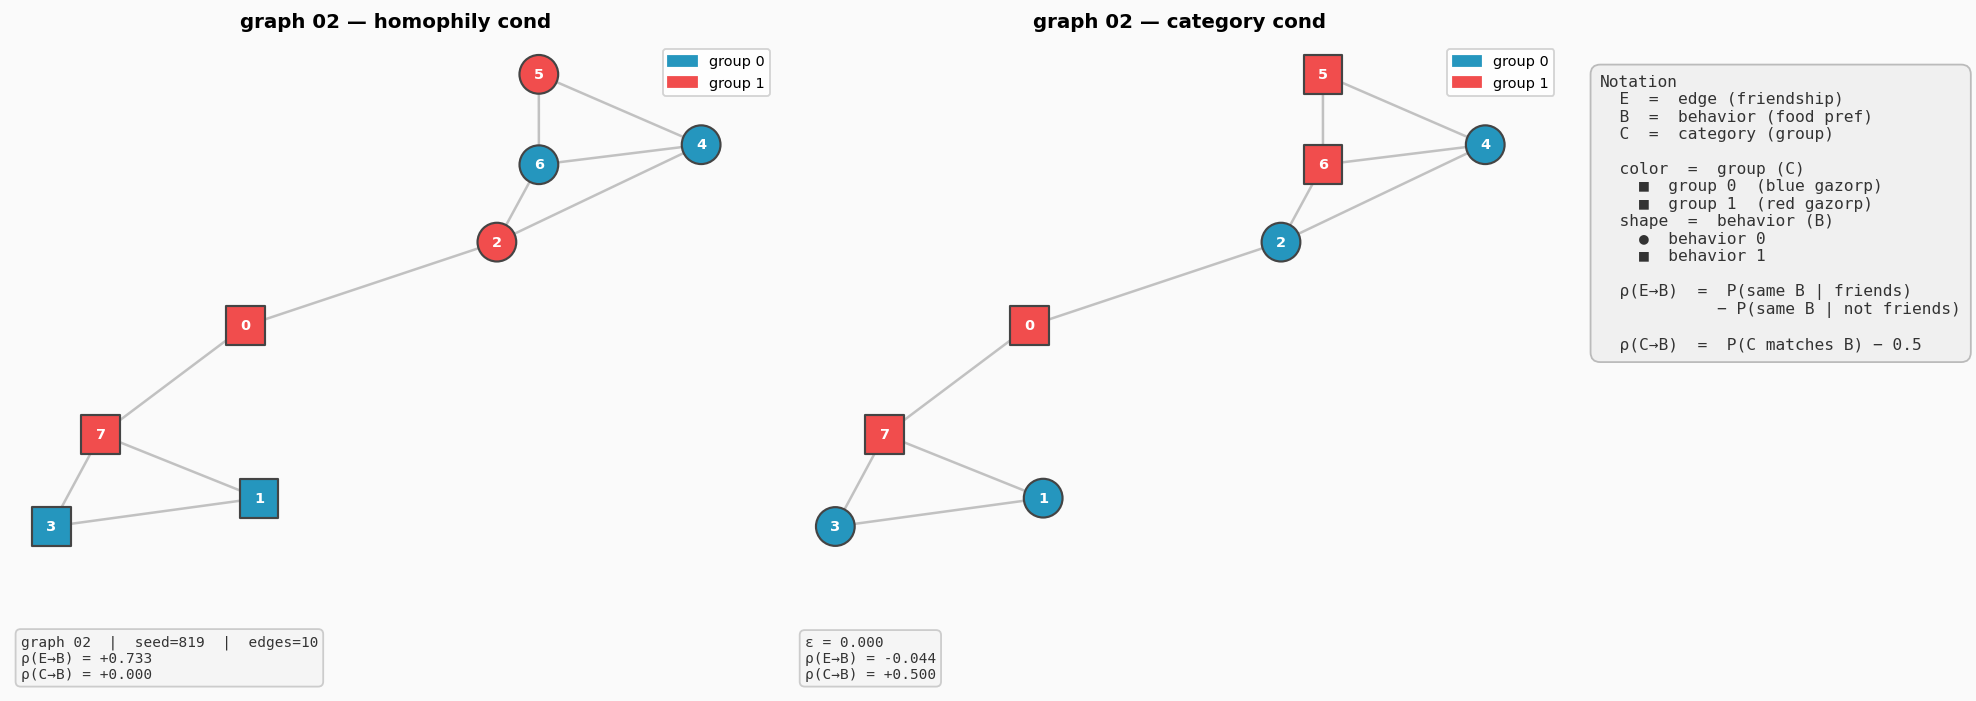
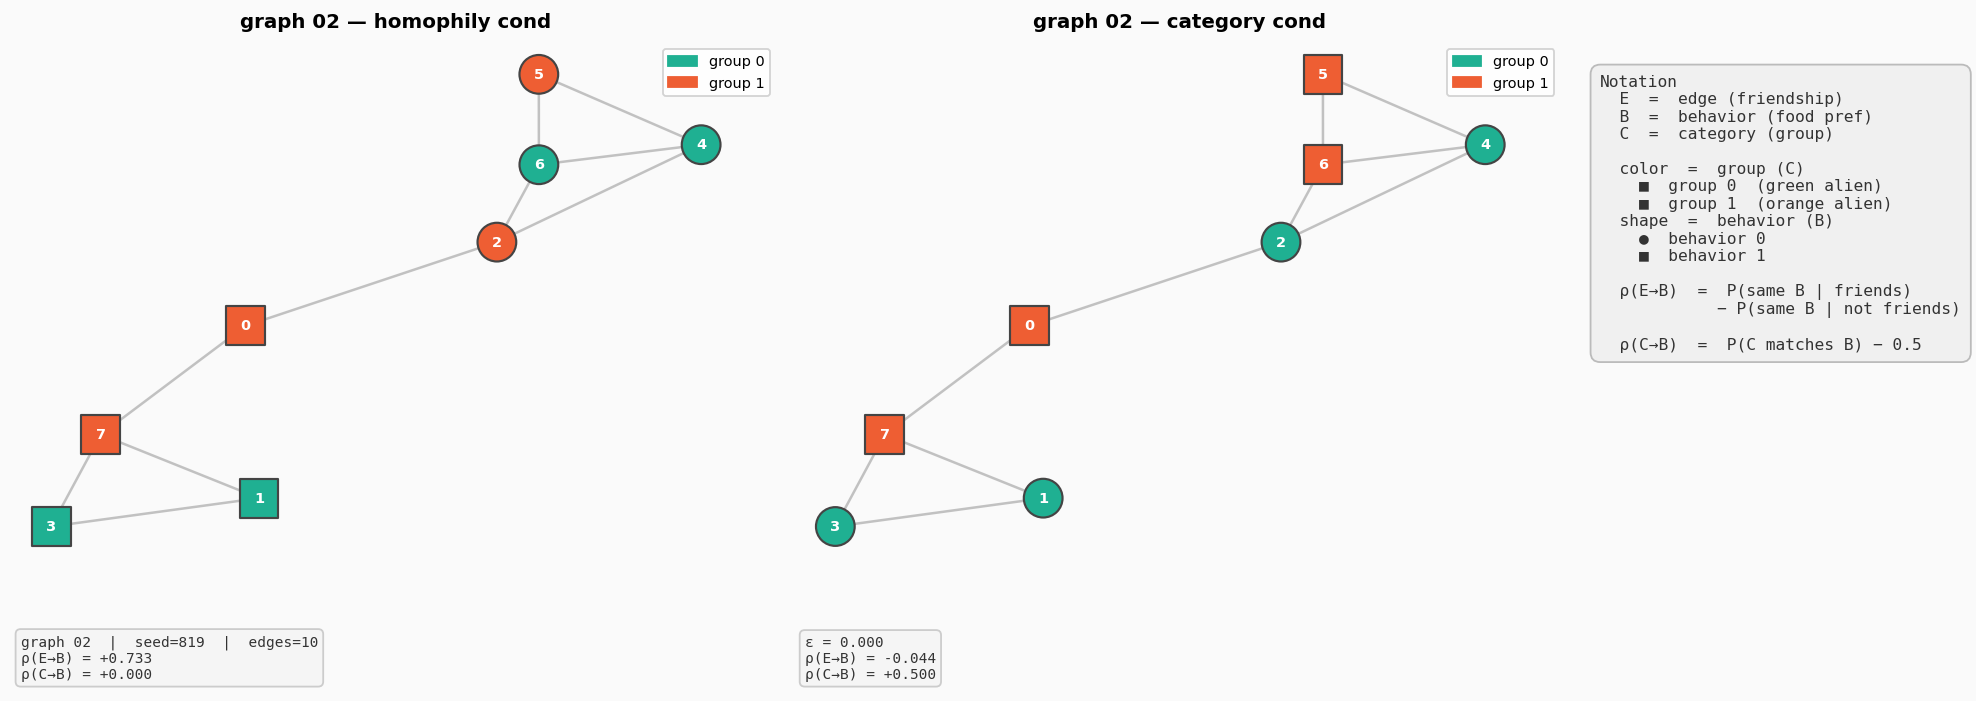
some updates

diff --git a/experiments/exp_1/experiment.js b/experiments/exp_1/experiment.js
@@ -461,7 +461,6 @@ function initStudy(graphData, condition) {
                     <li>Is each alien green or orange?</li>
                     <li>What does each alien eat?</li>
                 </ul>
-                <p>No feedback will be given. Just do your best.</p>
             </div>`],
         show_clickable_nav: true,
         allow_keys: false,
@@ -474,7 +473,7 @@ function initStudy(graphData, condition) {
         type: jsPsychHtmlButtonResponse,
         stimulus: `
             <div class='content-box' style='text-align:center;'>
-                <p style='font-size:17px; color:#555;'>Part 1 of 3: Were these two aliens friends?</p>
+                <p style='font-size:17px; color:#555;'>Were these two aliens friends with each other?</p>
             </div>`,
         choices: ['Start']
     };
@@ -487,7 +486,7 @@ function initStudy(graphData, condition) {
         type: jsPsychHtmlButtonResponse,
         stimulus: `
             <div class='content-box' style='text-align:center;'>
-                <p style='font-size:17px; color:#555;'>Part 2 of 3: Is each alien green or orange?</p>
+                <p style='font-size:17px; color:#555;'>Is each alien green or orange?</p>
             </div>`,
         choices: ['Start']
     };
@@ -500,7 +499,7 @@ function initStudy(graphData, condition) {
         type: jsPsychHtmlButtonResponse,
         stimulus: `
             <div class='content-box' style='text-align:center;'>
-                <p style='font-size:17px; color:#555;'>Part 3 of 3: What does each alien eat?</p>
+                <p style='font-size:17px; color:#555;'>What does each alien eat?</p>
             </div>`,
         choices: ['Start']
     };
@@ -509,28 +508,28 @@ function initStudy(graphData, condition) {
         behavior, nameMapping, behaviorLabels, species, jsPsych, sessionData
     );
 
-    // compute exclusion flags after phase 2
-    var phase2Done = {
-        type: jsPsychHtmlButtonResponse,
-        stimulus: `
-            <div class='content-box' style='text-align:center;'>
-                <p style='font-size:18px; color:#555;'>Memory check complete. Next up: 5 new aliens.</p>
-            </div>`,
-        choices: ['Continue'],
-        on_load: function() {
-            var val = sessionData.phase_2_validation;
+    // // compute exclusion flags after phase 2
+    // var phase2Done = {
+    //     type: jsPsychHtmlButtonResponse,
+    //     stimulus: `
+    //         <div class='content-box' style='text-align:center;'>
+    //             <p style='font-size:18px; color:#555;'>Memory check complete. Next up: 5 new aliens.</p>
+    //         </div>`,
+    //     choices: ['Continue'],
+    //     on_load: function() {
+    //         var val = sessionData.phase_2_validation;
 
-            var erCorrect = val.edge_recognition.filter(t => t.correct).length / val.edge_recognition.length;
-            var spCorrect = val.species_recall.filter(t => t.correct).length / val.species_recall.length;
-            var bhCorrect = val.behavior_recall.filter(t => t.correct).length / val.behavior_recall.length;
+    //         var erCorrect = val.edge_recognition.filter(t => t.correct).length / val.edge_recognition.length;
+    //         var spCorrect = val.species_recall.filter(t => t.correct).length / val.species_recall.length;
+    //         var bhCorrect = val.behavior_recall.filter(t => t.correct).length / val.behavior_recall.length;
 
-            sessionData.attention_flags.below_threshold_edge_recognition = erCorrect < THRESHOLD_EDGE_REC;
-            sessionData.attention_flags.below_threshold_species           = spCorrect < THRESHOLD_SPECIES;
-            sessionData.attention_flags.below_threshold_behavior          = bhCorrect < THRESHOLD_BEHAVIOR;
+    //         sessionData.attention_flags.below_threshold_edge_recognition = erCorrect < THRESHOLD_EDGE_REC;
+    //         sessionData.attention_flags.below_threshold_species           = spCorrect < THRESHOLD_SPECIES;
+    //         sessionData.attention_flags.below_threshold_behavior          = bhCorrect < THRESHOLD_BEHAVIOR;
 
-            logToBrowser('validation accuracy', { erCorrect, spCorrect, bhCorrect });
-        }
-    };
+    //         logToBrowser('validation accuracy', { erCorrect, spCorrect, bhCorrect });
+    //     }
+    // };
 
 
     // ══════════════════════════════════════════════════════════════
@@ -541,7 +540,8 @@ function initStudy(graphData, condition) {
         pages: [`
             <div class='content-box'>
                 <p>You'll now meet <b>2 new aliens</b> you haven't seen before.</p>
-                <p>For each one, choose <b>one thing</b> to reveal — their color, or who their friends are — then predict what they eat and rate your confidence.</p>
+                <p>Your job is to determine what they like to eat.</p>
+                <p>For each one, you can choose <b>one thing</b> to reveal about them (their color, or who their friends are), to help you decide.</p>
             </div>`],
         show_clickable_nav: true,
         allow_keys: false,
@@ -569,9 +569,8 @@ function initStudy(graphData, condition) {
                 <p style='font-size:18px;'>In your own words, how did you decide what each new alien eats?
                 What information did you find most useful?</p>
                 <p>
-                    <textarea name='strategy' rows='6' cols='70' minlength='30'
-                        placeholder='e.g. "I looked at whether the new alien seemed similar to..." (minimum 30 characters)'
-                        ${TESTING_MODE ? '' : 'required'}></textarea>
+                    <textarea name='strategy' rows='6' cols='70'
+                        placeholder='e.g. "I looked at whether the new alien seemed similar to..."'></textarea>
                 </p>
             </div>`,
         button_label: 'Continue',
@@ -697,13 +696,16 @@ function initStudy(graphData, condition) {
             conditional_function: function() { return _devStart <= 2; }
         },
         {
-            timeline: [phase2Instructions, edgeRecHeader]
-                .concat(edgeRecTrials)
-                .concat([speciesHeader])
-                .concat(speciesRecallTrials)
-                .concat([behaviorHeader])
-                .concat(behaviorRecallTrials)
-                .concat([phase2Done]),
+            timeline: (function() {
+                var blocks = jsPsych.randomization.shuffle([
+                    [edgeRecHeader].concat(edgeRecTrials),
+                    [speciesHeader].concat(speciesRecallTrials),
+                    [behaviorHeader].concat(behaviorRecallTrials)
+                ]);
+                return [phase2Instructions]
+                    .concat(blocks[0]).concat(blocks[1]).concat(blocks[2])
+                    // .concat([phase2Done]);
+            })(),
             conditional_function: function() { return _devStart <= 3; }
         },
         {

diff --git a/experiments/exp_1/components/transfer_trial.js b/experiments/exp_1/components/transfer_trial.js
@@ -53,8 +53,8 @@ function buildTransferTrials(opts, jsPsych) {
                     <!-- <div style='font-size:22px; font-weight:700; margin-top:8px;'>${novelName}</div> -->
                 </div>
                 <p class='transfer-prompt'>
-                    This new alien has <b>${TRANSFER_FRIENDS_REVEALED} friends</b> among the aliens you learned about.<br>
-                    To predict what it eats, you can learn <u>one thing</u>:
+                    This is a new alien you haven't seen before! Do you think it likes <b>${bLabels[0]}</b> or <b>${bLabels[1]}</b>?<br>
+                    To help determine what it likes to eat, you can learn one thing:
                 </p>
                 <div class='cue-choice-row' id='t-cue-choice'>
                     <button class='cue-btn' id='btn-species'>
@@ -92,9 +92,11 @@ function buildTransferTrials(opts, jsPsych) {
                         <p class='question-text'>How confident are you?</p>
                         <input type='range' class='trial-slider' id='conf-slider'
                             min='0' max='100' step='1' value='50'>
+                        <div style='text-align:center; margin:4px 0;'>
+                            <span class='slider-value-display' id='conf-val'>?</span>
+                        </div>
                         <div class='slider-footer'>
                             <span class='slider-label-min'>Not at all confident</span>
-                            <span class='slider-value-display' id='conf-val'>?</span>
                             <span class='slider-label-max'>Very confident</span>
                         </div>
                     </div>

diff --git a/experiments/exp_1/components/utils.js b/experiments/exp_1/components/utils.js
@@ -27,13 +27,6 @@ function updateSliderGradient(slider, color) {
     var pct = ((slider.value - slider.min) / (slider.max - slider.min)) * 100;
     slider.style.background =
         `linear-gradient(to right, ${c} 0%, ${c} ${pct}%, #e0e0e0 ${pct}%, #e0e0e0 100%)`;
-    var valEl = slider.parentElement &&
-        slider.parentElement.querySelector('.slider-value-display');
-    if (valEl) {
-        var offset = 11 - (pct / 100) * 22;
-        // clamp so the label doesn't clip outside the track at either endpoint
-        valEl.style.left = `clamp(20px, calc(${pct}% + ${offset}px), calc(100% - 20px))`;
-    }
 }
 
 // prefix for datapipe filenames

diff --git a/experiments/exp_1/css/style.css b/experiments/exp_1/css/style.css
@@ -124,7 +124,6 @@ input[type="range"].trial-slider::-moz-range-track {
 .slider-label-max { text-align: right; }
 .slider-value-display {
   font-size: 16px; font-weight: 700; color: #343633;
-  position: absolute; transform: translateX(-50%);
   white-space: nowrap; pointer-events: none;
 }
 

diff --git a/experiments/exp_1/scripts/generate_graphs.py b/experiments/exp_1/scripts/generate_graphs.py
@@ -147,7 +147,7 @@ def try_make_graph(seed):
 # ── image generation ──────────────────────────────────────────
 # color = group/species (matches actual gazorp colors)
 # shape = behavior: circle (0) vs square (1)
-GRP_COLORS = ['#2596be', '#f14d4d']   # group 0 = blue gazorp / group 1 = red gazorp
+GRP_COLORS = ['#1fb092', '#ee5e33']   # group 0 = green alien / group 1 = orange alien
 
 NOTATION_KEY = (
     "Notation\n"
@@ -155,8 +155,8 @@ NOTATION_KEY = (
     "  B  =  behavior (food pref)\n"
     "  C  =  category (group)\n\n"
     "  color  =  group (C)\n"
-    "    ■  group 0  (blue gazorp)\n"
-    "    ■  group 1  (red gazorp)\n"
+    "    ■  group 0  (green alien)\n"
+    "    ■  group 1  (orange alien)\n"
     "  shape  =  behavior (B)\n"
     "    ●  behavior 0\n"
     "    ■  behavior 1\n\n"
